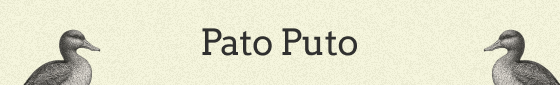
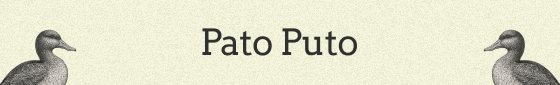
Create new authentication (#23)
* feat: create code structure

* feat: implement jwt and remove clerk from api

* fix: adjust type errors

* feat: remove clerk

* feat: implement acces token on store electron

* feat: remove clerk

* refactor: remove clerk

* feat: add authentication on app

* fix: authentication

* fix: logout

* feat: implement actived field

* fix: lint

* feat: implement logout when JWT expires

* refactor: change axios to api

* fix: on request middleware

* fix: remove validation on feedback dialog

* fix: logout when jwt is invalid

* refactor: fix banner position

Changed region(s): [[0.0, 0.3529, 0.1821, 1.0]]

diff --git a/apps/api/src/middleware/on-request-middleware.ts b/apps/api/src/middleware/on-request-middleware.ts
@@ -1,28 +1,26 @@
-import type { FastifyPluginAsync } from 'fastify'
+import type { FastifyReply, FastifyRequest } from 'fastify'
 import { env } from '../env'
+import { AppError } from '../helpers/error-handler'
 import { validateJWT } from '../lib/validate-jwt'
 
-export const onRequestMiddleware: FastifyPluginAsync = async (fastify) => {
-	fastify.addHook('onRequest', async (request, reply) => {
-		const url = request.url
-		const isPublicRoute = url.includes('/webhook') || url.includes('/auth')
+export const onRequestMiddleware = async (request: FastifyRequest, reply: FastifyReply) => {
+	const url = request.url
+	const isPublicRoute = url.includes('/webhook') || url.includes('/auth')
 
-		const adminHeader = request.headers['x-admin']
-		const isDevAdmin = adminHeader === 'dev' && env.NODE_ENV === 'development'
+	const adminHeader = request.headers['x-admin']
+	const isDevAdmin = adminHeader === 'dev' && env.NODE_ENV === 'development'
 
-		if (isPublicRoute || isDevAdmin) {
-			return
-		}
+	if (isPublicRoute || isDevAdmin) {
+		return
+	}
 
-		const token = request.headers.authorization?.split(' ')[1] ?? ''
+	const token = request.headers.authorization?.split(' ')[1] ?? ''
 
-		const decoded = validateJWT(token)
+	const decoded = validateJWT(token)
 
-		if (!decoded) {
-			reply.code(401).send({ error: 'Unauthorized' })
-			return reply
-		}
+	if (!decoded) {
+		throw new AppError('Unauthorized', 'Invalid token', 401)
+	}
 
-		request.user = decoded
-	})
+	request.user = decoded
 }

diff --git a/apps/app/src/renderer/lib/api.ts b/apps/app/src/renderer/lib/api.ts
@@ -1,0 +1,34 @@
+import axios from 'axios'
+import { env } from '../env'
+import { getStoreOptions } from '../requests/electron-store/options'
+import type { ApiError } from '../types/api'
+import { queryClient } from './react-query'
+
+export const api = axios.create({
+	baseURL: env.VITE_API_URL,
+	withCredentials: true
+})
+
+api.interceptors.request.use(async (config) => {
+	const store = queryClient.getQueryData(getStoreOptions().queryKey)
+	config.headers.Authorization = `Bearer ${store?.auth?.accessToken}`
+	return config
+})
+
+api.interceptors.response.use(
+	(response) => response.data,
+	(e) => {
+		const error = e.response?.data as ApiError
+
+		if (error.error === 'Unauthorized') {
+			queryClient.invalidateQueries(getStoreOptions())
+
+			window.api.store.updateStore({
+				store: {
+					auth: null
+				}
+			})
+		}
+		throw new Error(error.error, { cause: error.message })
+	}
+)

diff --git a/apps/api/src/lib/validate-jwt.tsx b/apps/api/src/lib/validate-jwt.tsx
@@ -3,13 +3,16 @@ import jwt from 'jsonwebtoken'
 import { env } from '../env'
 
 export const validateJWT = (token: string) => {
-	const decoded = jwt.verify(token, env.JWT_SECRET) as UserJWT & { exp: number }
+	try {
+		const decoded = jwt.verify(token, env.JWT_SECRET) as UserJWT & { exp: number }
+		const now = Date.now() / 1000
 
-	const now = Date.now() / 1000
+		if (decoded.exp < now) {
+			return null
+		}
 
-	if (decoded.exp < now) {
+		return decoded
+	} catch (error) {
 		return null
 	}
-
-	return decoded
 }

diff --git a/apps/app/src/renderer/requests/auth/get-code.ts b/apps/app/src/renderer/requests/auth/get-code.ts
@@ -1,5 +1,5 @@
-import { api } from '@renderer/lib/axios'
 import type { GetCodeRequest, GetCodeResponse } from '@repo/api-types/authentication.dto'
+import { api } from '~/src/renderer/lib/api'
 
 export const getCode = async ({ email }: GetCodeRequest): Promise<GetCodeResponse> =>
 	api.post('/auth/get-code', { email })

diff --git a/apps/app/src/renderer/requests/curse/curse.ts b/apps/app/src/renderer/requests/curse/curse.ts
@@ -1,5 +1,5 @@
-import { api } from '@renderer/lib/axios'
 import type { CurseScreenshotRequest, CurseScreenshotResponse } from '@repo/api-types/curse.dto'
+import { api } from '~/src/renderer/lib/api'
 
 interface CurseRequest extends CurseScreenshotRequest {
 	userId: string

diff --git a/apps/app/src/renderer/requests/payments/get-payment.ts b/apps/app/src/renderer/requests/payments/get-payment.ts
@@ -1,5 +1,5 @@
 import type { Payment } from '@repo/api-types/payment.dto'
-import { api } from '../../lib/axios'
+import { api } from '../../lib/api'
 
 export const getPayment = async (paymentId: string): Promise<Payment> =>
 	await api.get(`/payment/pix/${paymentId}`)

diff --git a/apps/app/src/renderer/requests/payments/get-all-payments.ts b/apps/app/src/renderer/requests/payments/get-all-payments.ts
@@ -1,5 +1,5 @@
 import type { Payment } from '@repo/api-types/payment.dto'
-import { api } from '../../lib/axios'
+import { api } from '../../lib/api'
 
 export const getAllPayments = async (userId: string): Promise<Payment[]> =>
 	api.get(`/payment/all/${userId}`)

diff --git a/apps/api/src/server.ts b/apps/api/src/server.ts
@@ -35,7 +35,7 @@ fastify.register(cors, {
 fastify.setValidatorCompiler(validatorCompiler)
 fastify.setSerializerCompiler(serializerCompiler)
 
-fastify.register(onRequestMiddleware)
+fastify.addHook('onRequest', onRequestMiddleware)
 
 fastify.register(routes)
 

diff --git a/apps/app/src/renderer/requests/user/get-user.ts b/apps/app/src/renderer/requests/user/get-user.ts
@@ -1,4 +1,4 @@
-import { api } from '@renderer/lib/axios'
 import type { User } from '@repo/api-types/user.schema'
+import { api } from '~/src/renderer/lib/api'
 
 export const getUser = async (userId: string): Promise<User> => await api.get(`/user/${userId}`)

diff --git a/apps/app/src/renderer/requests/payments/create-pix-payment.ts b/apps/app/src/renderer/requests/payments/create-pix-payment.ts
@@ -1,5 +1,5 @@
 import type { PaymentRequest, PaymentResponse } from '@repo/api-types/payment.dto'
-import { api } from '../../lib/axios'
+import { api } from '../../lib/api'
 
 interface CreatePixPaymentRequest extends PaymentRequest {
 	userId: string

diff --git a/apps/app/src/renderer/requests/auth/confirm-code.ts b/apps/app/src/renderer/requests/auth/confirm-code.ts
@@ -1,5 +1,5 @@
-import { api } from '@renderer/lib/axios'
 import type { ConfirmCodeRequest, ConfirmCodeResponse } from '@repo/api-types/authentication.dto'
+import { api } from '~/src/renderer/lib/api'
 
 export const confirmCode = async ({
 	email,

diff --git a/apps/app/src/renderer/requests/feedback/create-feedback.ts b/apps/app/src/renderer/requests/feedback/create-feedback.ts
@@ -1,5 +1,5 @@
 import type { CreateFeedbackDto } from '@repo/api-types/feedback.dto'
-import { api } from '../../lib/axios'
+import { api } from '../../lib/api'
 
 interface CreateFeedbackParams extends CreateFeedbackDto {
 	userId: string
